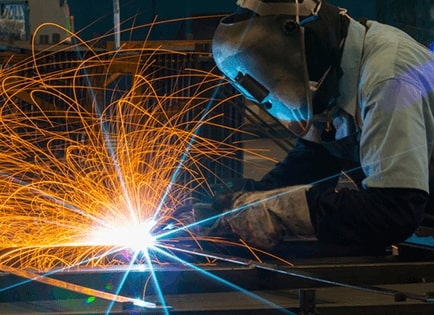
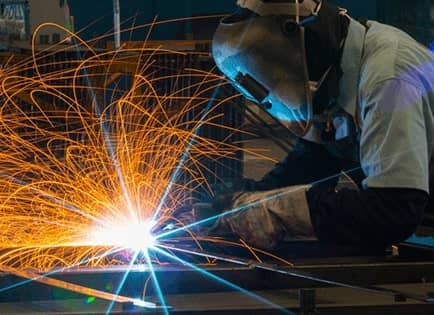
Add preload image and optimize images

diff --git a/source/index.html b/source/index.html
@@ -28,9 +28,16 @@
     <link rel="icon" href="/favicons/favicon192.png" type="image/png" sizes="192x192">
     <link rel="icon" href="/favicons/favicon512.png" type="image/png" sizes="512x512">
 
-    <!-- Preload Fonts -->
+    <!-- Preload -->
     <link rel="preload" href="/fonts/regular.woff2" type="font/woff2" as="font" crossorigin="anonymous">
     <link rel="preload" href="/fonts/bold.woff2" type="font/woff2" as="font" crossorigin="anonymous">
+
+    <link rel="preload" href="/images/laser.jpg" as="image">
+    <link rel="preload" href="/images/holes.jpg" as="image">
+    <link rel="preload" href="/images/bend.jpg" as="image">
+    <link rel="preload" href="/images/turning.jpg" as="image">
+    <link rel="preload" href="/images/welding.jpg" as="image">
+    <link rel="preload" href="/images/painting.jpg" as="image">
 
     <!-- Stylesheet -->
     <link rel="stylesheet" href="/styles/styles.css">
